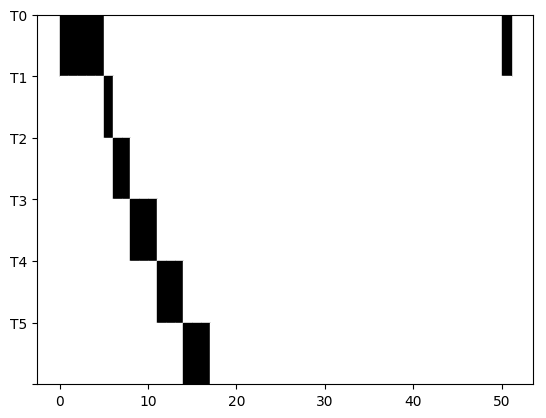
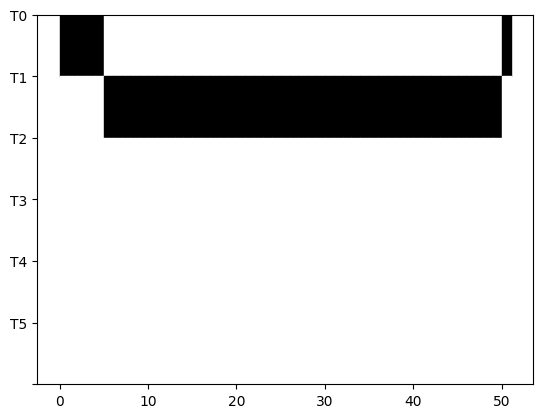
Plotter command

Changed region(s): [[0.1868, 0.1555, 0.9341, 0.933]]

diff --git a/project.py b/project.py
@@ -9,7 +9,7 @@ import matplotlib.pyplot as plt
 import numpy as np
 
 log = logging.getLogger()
-logging.basicConfig(level=logging.FATAL)
+logging.basicConfig(level=logging.DEBUG)
 
 # Tasks keys
 TASK_KEYS = ['offset', 'period', 'deadline', 'WCET']
@@ -44,6 +44,16 @@ def parse_args():
                             help='Stop point of the simulation.')
     add_task_arg(sim_parser)
     sim_parser.set_defaults(action="sim")
+
+    plot_parser = subparsers.add_parser('plot',
+                                        help='Plot the FTP simulation '
+                                             'for a given period.')
+    plot_parser.add_argument(dest='start', type=int,
+                             help='Start point of the simulation.')
+    plot_parser.add_argument(dest='stop', type=int,
+                             help='Stop point of the simulation.')
+    add_task_arg(plot_parser)
+    plot_parser.set_defaults(action="plot")
 
     audsley_parser = subparsers.add_parser('audsley',
                                            help='Depicts the research made by '
@@ -174,21 +184,6 @@ def calculate_s(tasks, i=None):
         # FIXME check that the formula is correct
         return offset + \
                (math.ceil(max(previous_s - offset, 0) / period) * period)
-
-
-def interval(tasks_file):
-    log.info("Feasibility interval of '%s'" % tasks_file)
-    tasks = parse_tasks(tasks_file)
-    omax = max([task[O] for task in tasks])
-    P = hyper_period(tasks)
-    print(omax, omax + (2 * P))
-
-
-def sim(start, stop, tasks_file):
-    log.info("Simulation for '%s'" % tasks_file)
-    simulation = FTPSimulation(start, stop, parse_tasks(tasks_file))
-    simulation.run()
-    simulation.output()
 
 
 class FTPSimulationException(Exception):
@@ -443,7 +438,7 @@ class FTPSimulation:
         for t in range(len(self.events)):
             print(t, ':', self.events[t])
 
-    def plot(self):
+    def plot(self, filename):
 
         fig = plt.figure()
         ax = fig.add_subplot(111)
@@ -472,44 +467,12 @@ class FTPSimulation:
             ylabels.append("T%s" % t)
         ax.set_yticklabels(ylabels)
         plt.ylim(len(self.scheduling), 0)
-        plt.savefig('scheduler', bbox_inches='tight')
+        plt.savefig(filename, bbox_inches='tight')
         plt.close()
 
 
 # def avg(a, b):
 #     return (a + b) / 2.0
-
-
-def lowest_priority_viable(tasks, start, stop, index):
-    """
-    Uses missed_jobs wihch contains
-    tasks and number of missed jobs for every task return false if the
-    task given on index miss a job
-    """
-    # FIXME add a condition either here or in the simulation if len(tasks) == 1 (or 0)
-    # FIXME make sure that it is a deepcopy
-    tasks_copy = tasks[:index] + tasks[index + 1:] + [tasks[index]]
-    print(tasks_copy)
-    simulation = FTPSimulation(start, stop, tasks_copy)
-    simulation.run()
-    missed_jobs = simulation.missed_jobs[index]
-    log.info("Tasks missed jobs '%s'" % simulation.missed_jobs)
-    return missed_jobs == 0
-
-
-def audsley_search(first, last, tasks, level=0):
-    for i in range(len(tasks)):
-        if lowest_priority_viable(tasks, first, last, i):
-            print((" " * level), "Task %d is lowest priority viable" % i)
-            audsley_search(first, last, tasks[:i] + tasks[i + 1:], level + 1)
-        else:
-            print((" " * level), "Task %d is not lowest priority viable" % i)
-
-
-def audsley(first, last, tasks_file):
-    log.info("Running audsley command with '%s'" % tasks_file)
-    audsley_search(first, last, parse_tasks(tasks_file))
-
 
 class Generator:
     def __init__(self, utilisation_factor, number_of_tasks):
@@ -643,6 +606,61 @@ def gen(utilisation_factor, number_of_tasks, tasks_file):
     log.info("Generation of  '%s'" % number_of_tasks)
     Generator(utilisation_factor,
               number_of_tasks).generate_tasks_on_file(tasks_file)
+
+
+def interval(tasks_file):
+    log.info("Feasibility interval of '%s'" % tasks_file)
+    tasks = parse_tasks(tasks_file)
+    omax = max([task[O] for task in tasks])
+    P = hyper_period(tasks)
+    print(omax, omax + (2 * P))
+
+
+def sim(start, stop, tasks_file):
+    log.info("Simulation for '%s'" % tasks_file)
+    simulation = FTPSimulation(start, stop, parse_tasks(tasks_file))
+    simulation.run()
+    simulation.output()
+
+
+def lowest_priority_viable(tasks, start, stop, index):
+    """
+    Uses missed_jobs wihch contains
+    tasks and number of missed jobs for every task return false if the
+    task given on index miss a job
+    """
+    # FIXME add a condition either here or in the simulation if len(tasks) == 1 (or 0)
+    # FIXME make sure that it is a deepcopy
+    tasks_copy = tasks[:index] + tasks[index + 1:] + [tasks[index]]
+    print(tasks_copy)
+    simulation = FTPSimulation(start, stop, tasks_copy)
+    simulation.run()
+    missed_jobs = simulation.missed_jobs[index]
+    log.info("Tasks missed jobs '%s'" % simulation.missed_jobs)
+    return missed_jobs == 0
+
+
+def audsley_search(first, last, tasks, level=0):
+    for i in range(len(tasks)):
+        if lowest_priority_viable(tasks, first, last, i):
+            print((" " * level), "Task %d is lowest priority viable" % i)
+            audsley_search(first, last, tasks[:i] + tasks[i + 1:], level + 1)
+        else:
+            print((" " * level), "Task %d is not lowest priority viable" % i)
+
+
+def audsley(first, last, tasks_file):
+    log.info("Running audsley command with '%s'" % tasks_file)
+    audsley_search(first, last, parse_tasks(tasks_file))
+
+
+def plot(start, stop, tasks_file):
+    log.info("Running simulation (for plot) on '%s'" % tasks_file)
+    simulation = FTPSimulation(start, stop, parse_tasks(tasks_file))
+    simulation.run()
+    filename = "scheduler.png"
+    print("Plotting to '%s'" % filename)
+    simulation.plot(filename)
 
 
 def main():

diff --git a/README.md b/README.md
@@ -14,6 +14,12 @@ python3 project.py interval <tasksFile>
 ```
 python3 project.py sim <start> <stop> <tasksFile>
 ```
+
+```
+python3 project.py plot <start> <stop> <tasksFile>
+```
+
+
 ```
 python3 project.py audsley <first> <last> <tasksFile>
 ```
